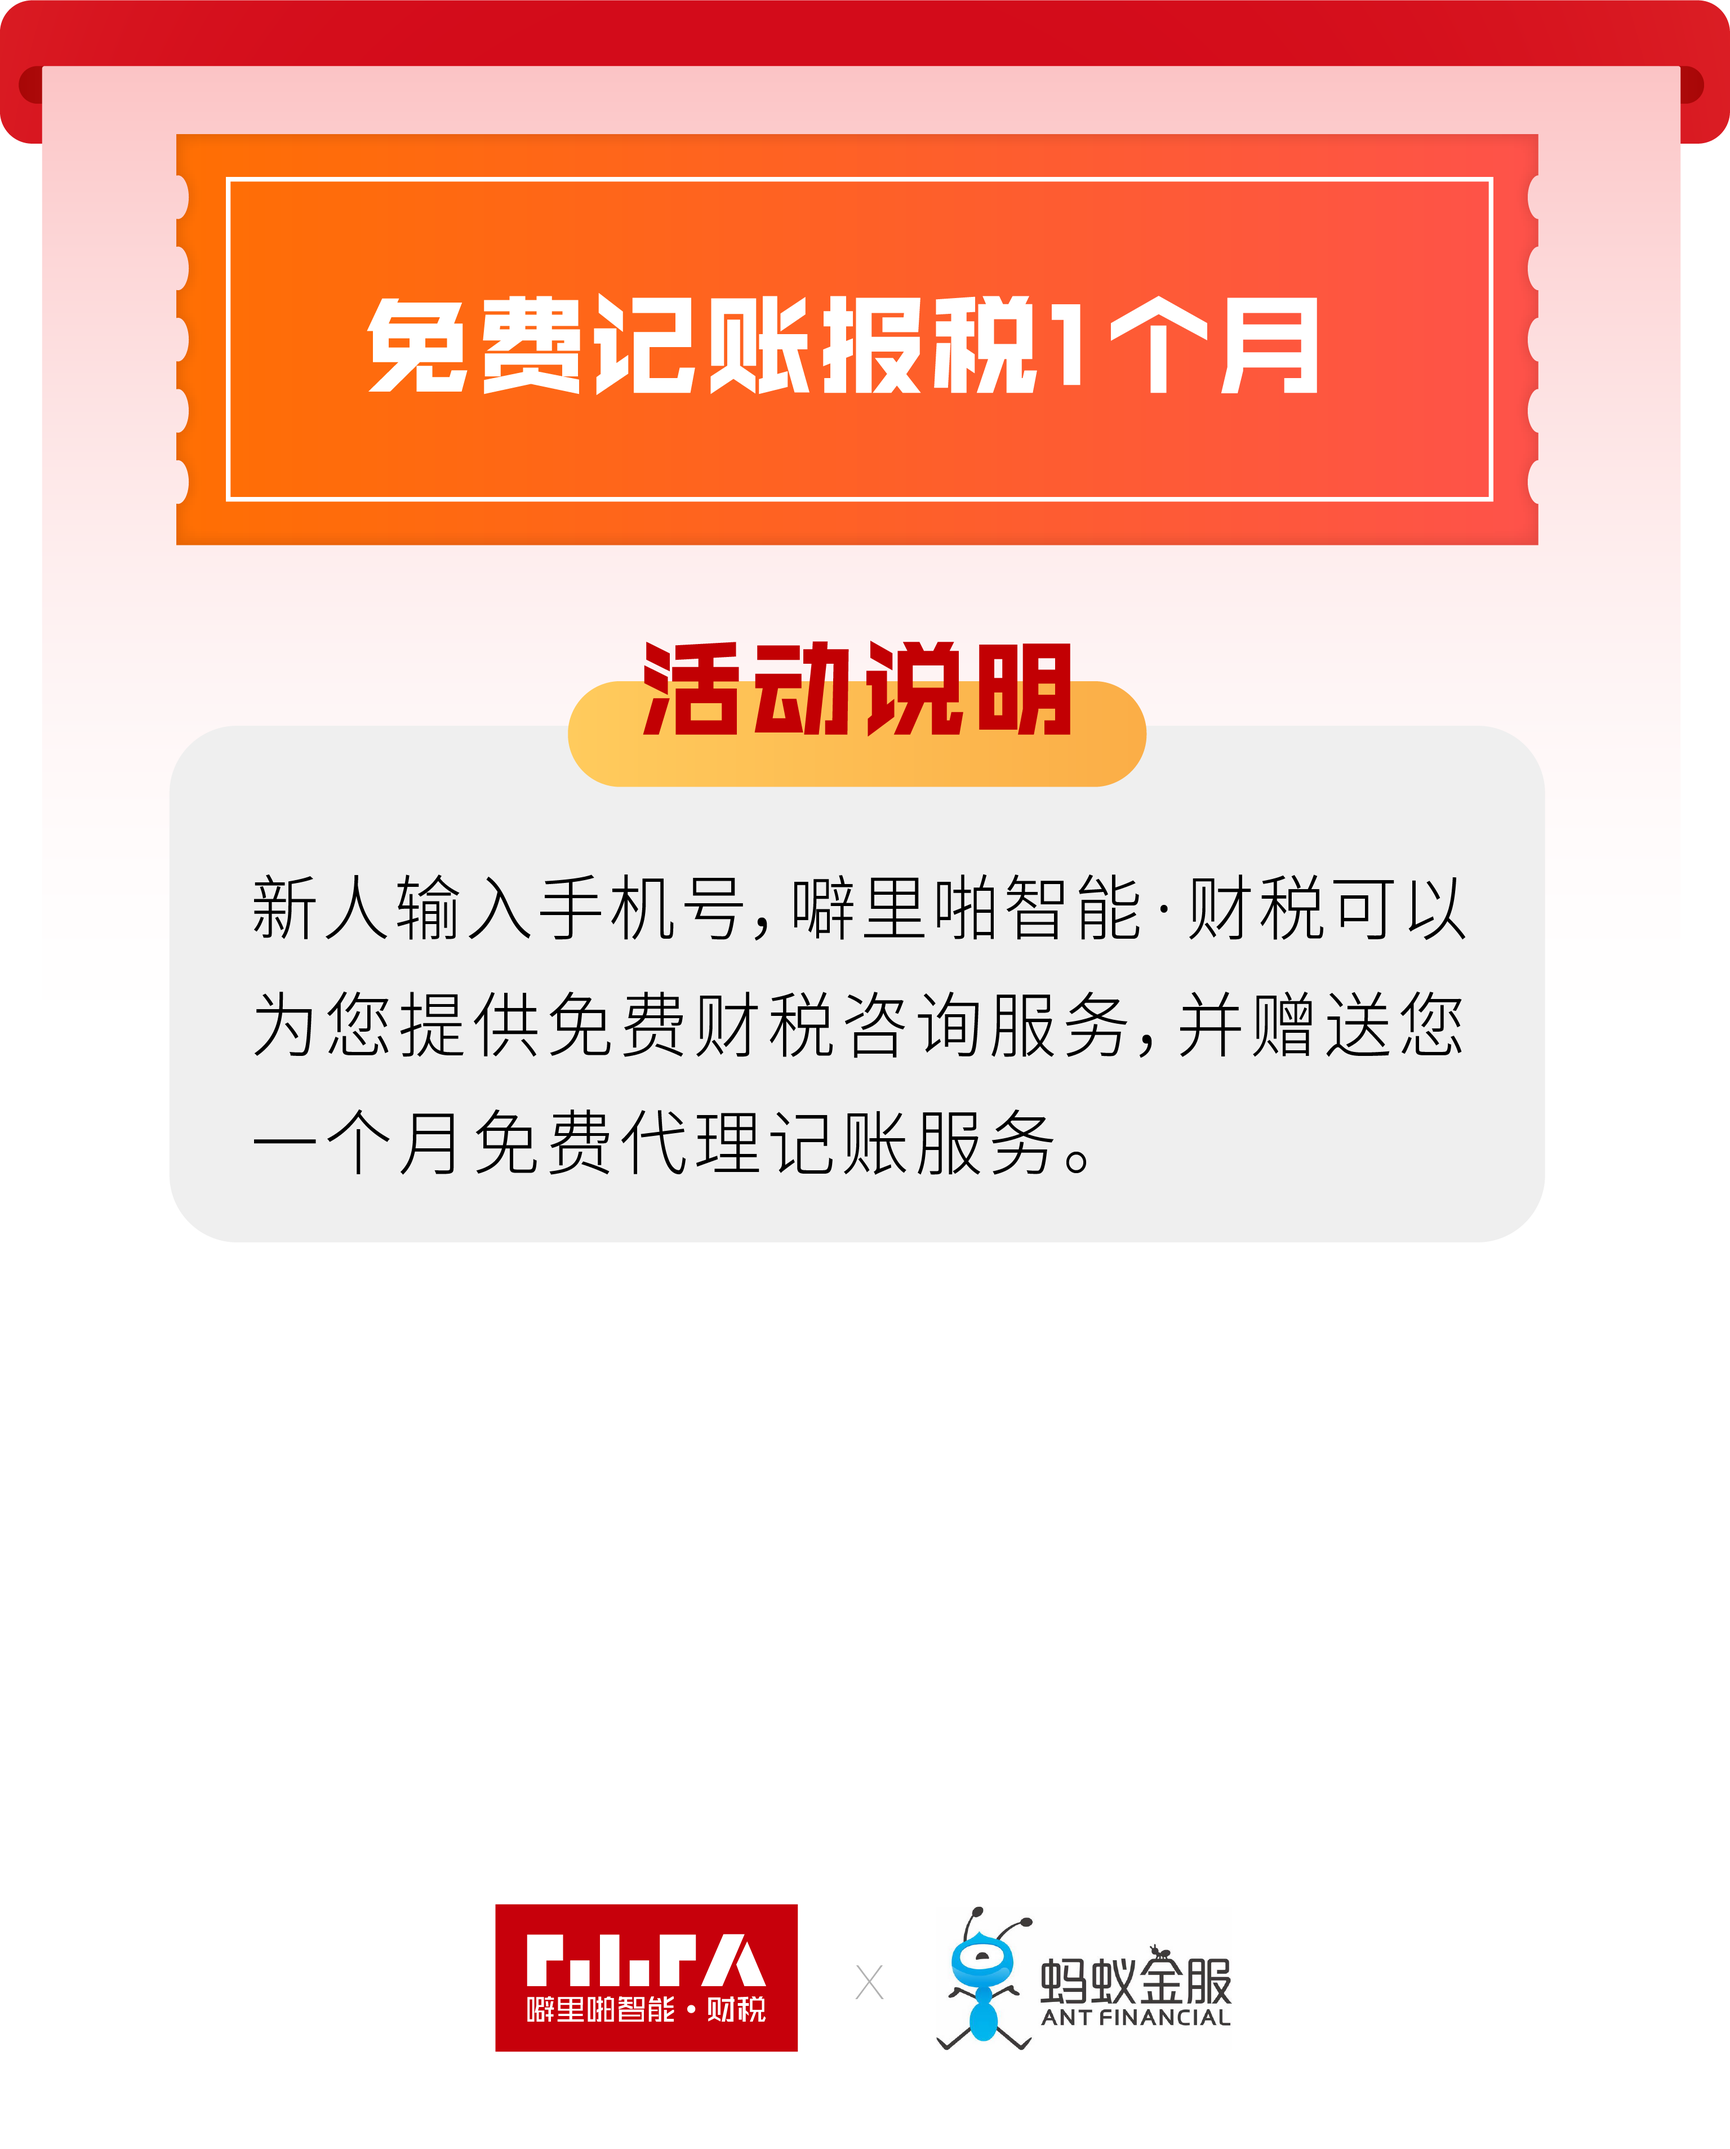
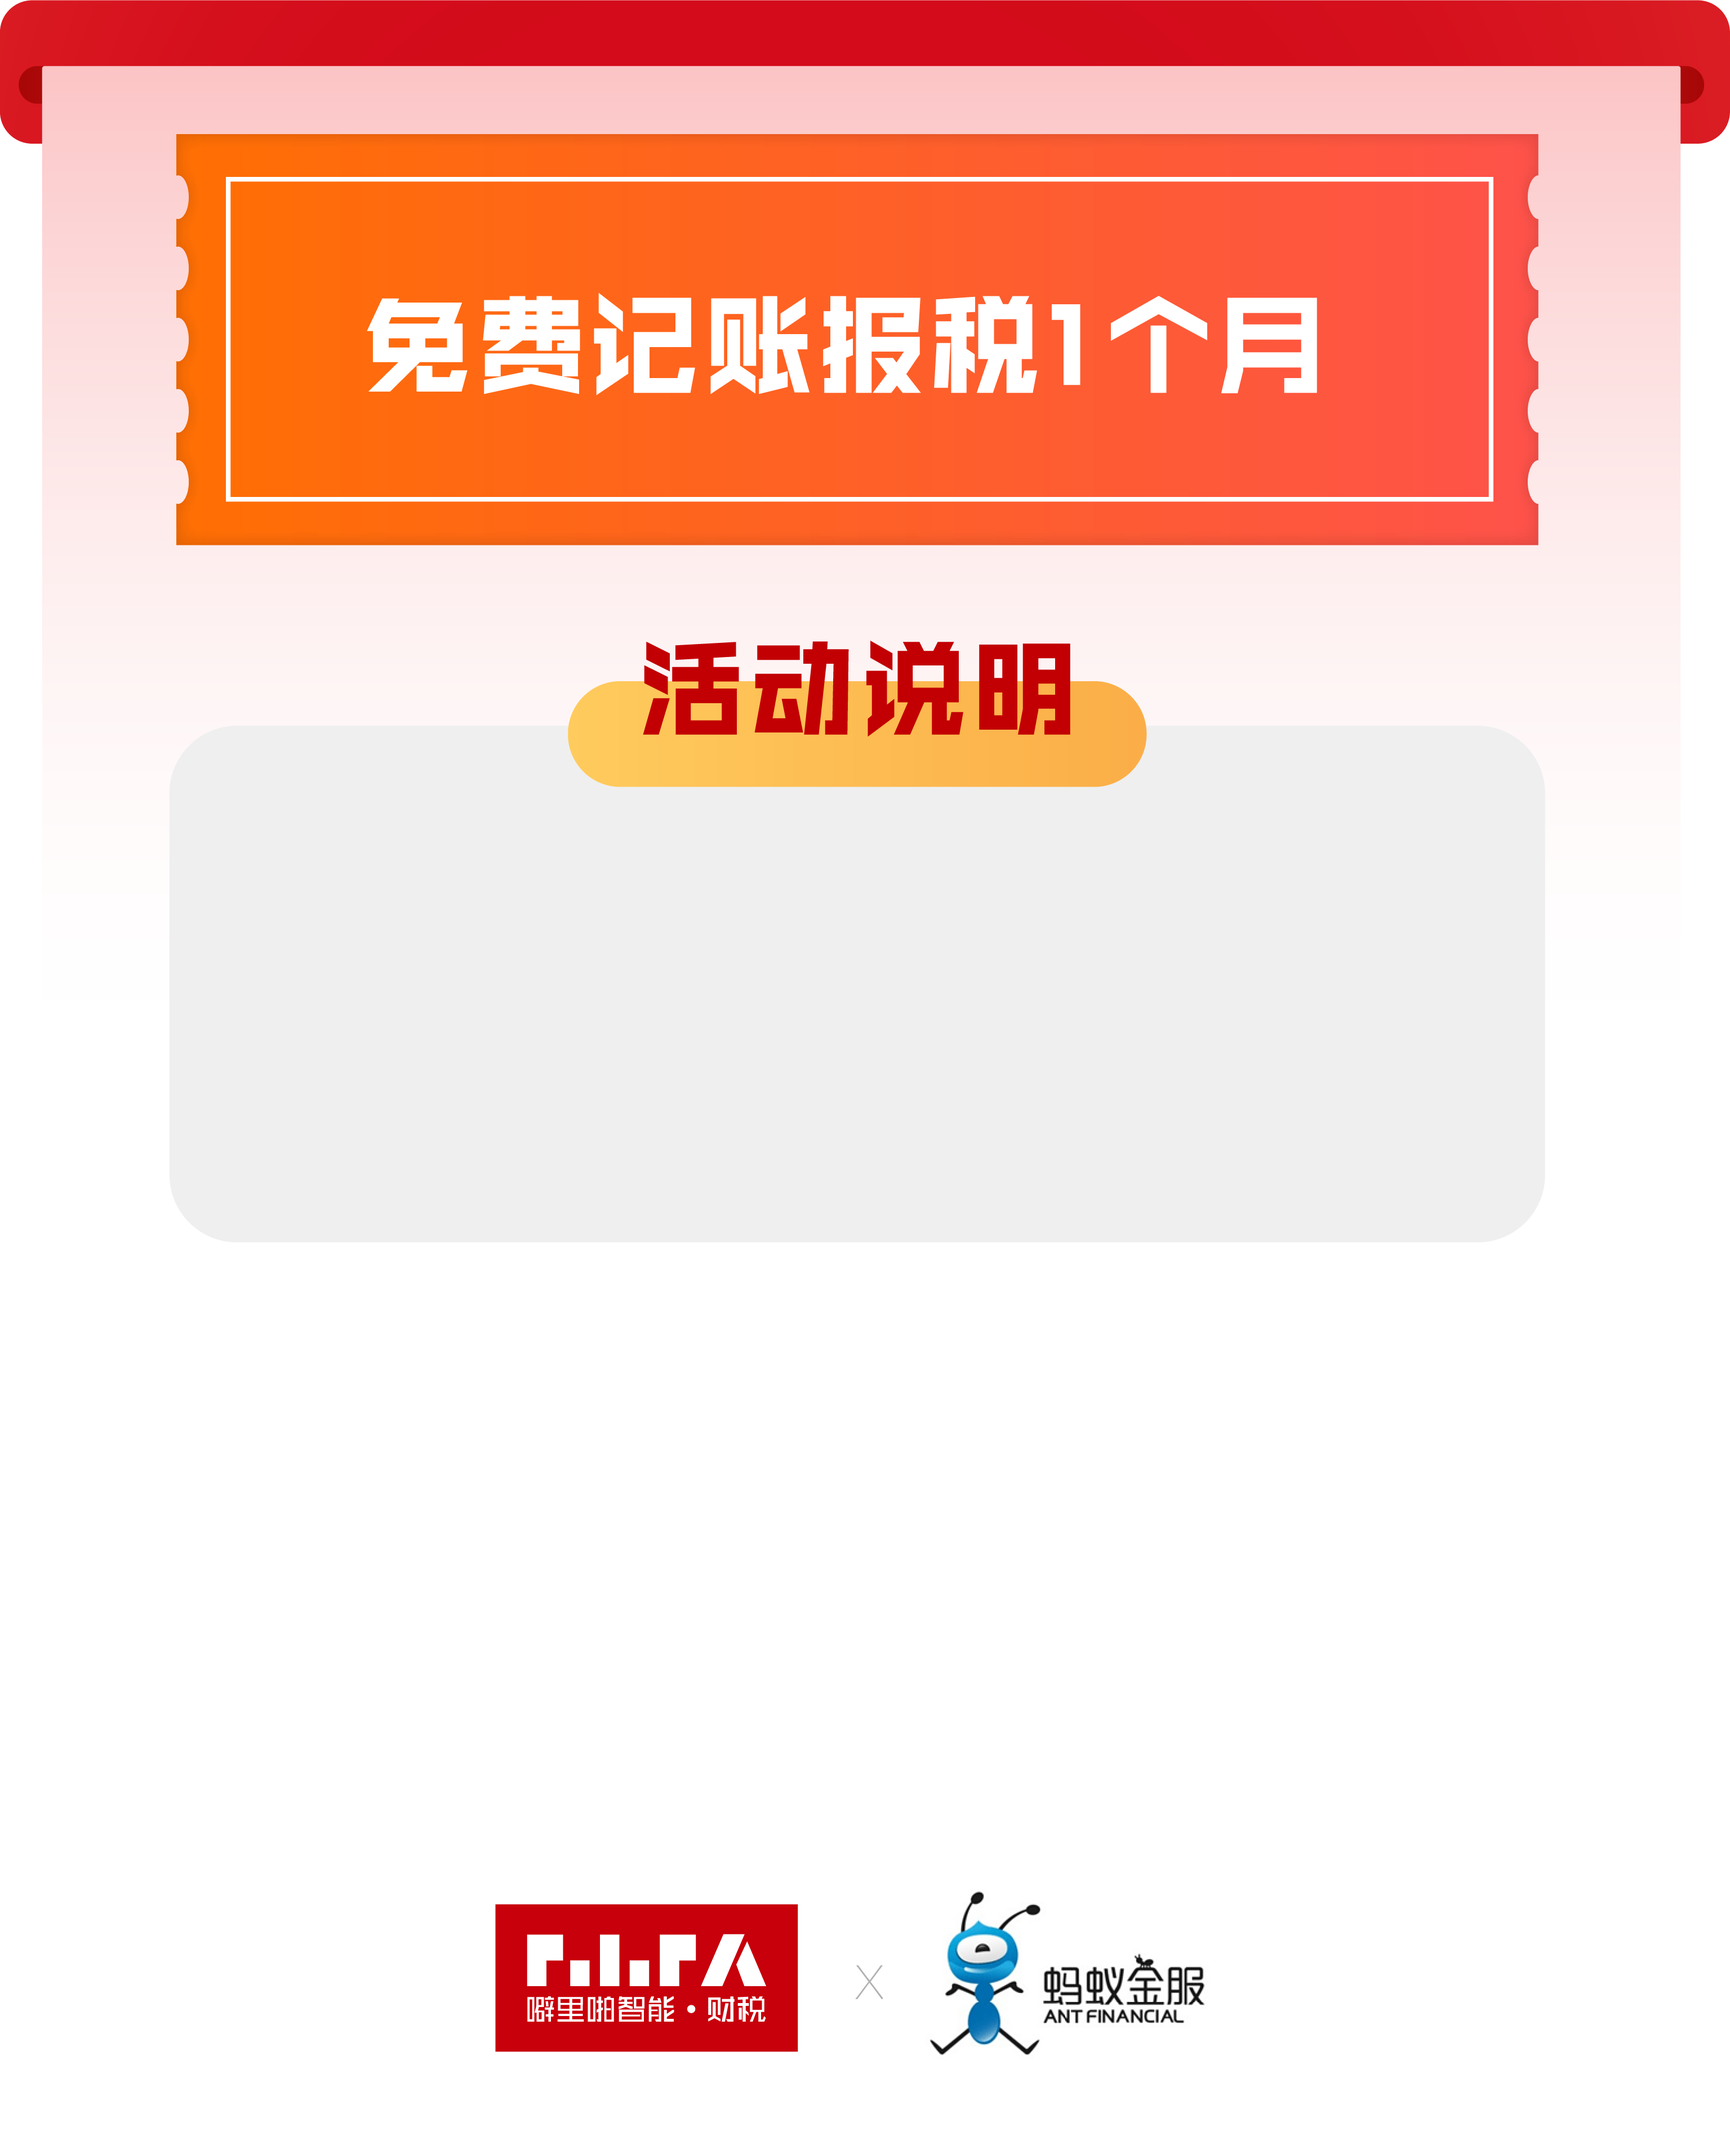
[fix] 优化新人送大礼 related to issue #1

diff --git a/client/container/activities/gift/style.module.sass b/client/container/activities/gift/style.module.sass
@@ -1,3 +1,5 @@
+@function convert($n)
+  @return ($n / 50) + rem
 @mixin allSize-PX($width: 100%, $height: auto)
   .activity
     width: 100%
@@ -16,50 +18,49 @@
     width: 100%
     height: auto
   .con
-    width: 350px
-    height: 460px
-    background: url('client/assets/activity-con2.png') 0px 20px / 100% auto no-repeat
+    width: convert(350)
+    height: convert(460)
+    background: url('client/assets/activity-con2.png') 0px convert(20) / 100% auto no-repeat
     position: absolute
     left: 0
     right: 0
     margin: 0 auto
-    top: 110px
-    @media screen and (max-width: 321px)
-      width: 300px
-      height: 400px
-      .form-card
-        margin: 242px auto 0
-        width: 190px
-        .item
-          line-height: 38px
-          input
-            height: 38px
-      .btn
-        width: 200px
-        height: 44px
-        font-size: 16px
-        line-height: 40px
+    top: convert(110)
+  .activity-desc
+    position: absolute
+    top: convert(190)
+    left: 0
+    right: 0
+    width: convert(275)
+    font-size: convert(14)
+    margin: 0 auto
+    padding: 0 convert(12)
+    line-height: convert(24)
+    box-sizing: border-box
+    color: #666
   .form-card
-    margin: 282px auto 0
-    width: 270px
+    margin: convert(282) auto 0
+    width: convert(270)
     .item
       border-bottom: none
-      line-height: 38px
-      background: #ffd7d7
-      border-radius: 5px
       input
         color: #f2292d
-        height: 38px
-        padding-left: 10px
+        height: convert(38)
+        line-height: convert(38)
+        padding-left: convert(10)
+        font-size: convert(14)
+        background: #ffd7d7
+        border-radius: 5px
         &::-webkit-input-placeholder
           color: #f2292d
-          font-size: 14px
+          line-height: convert(38)
+          font-size: convert(14)
   .btn
-    margin: 10px auto 0
-    width: 270px
-    height: 45px
+    margin: convert(10) auto 0
+    width: convert(270)
+    height: convert(45)
     background: url('client/assets/activity-btn2.png') center / 100% 100% no-repeat
     text-align: center
-    line-height: 45px
+    line-height: convert(45)
     color: #fff
-    font-size: 14px
+    font-size: convert(14)

diff --git a/client/container/activities/gift/index.tsx b/client/container/activities/gift/index.tsx
@@ -41,6 +41,9 @@ class Main extends React.Component<Props> {
           <img src={require('client/assets/activity-bg2.png')}>
           </img>
           <div className={cx('con')}>
+            <div className={cx('activity-desc')}>
+              新人输入手机号，噼里啪智能·财税可以为您提供免费财税咨询服务，并赠送您一个月免费代理记账服务。
+            </div>
             <div className={cx('form-card')}>
               <FormItem
                 className={cx('item')}

diff --git a/client/container/user/info/phone/index.tsx b/client/container/user/info/phone/index.tsx
@@ -41,7 +41,7 @@ class Main extends React.Component<Props> {
           APP.dispatch(actions.user.fetch())
         })
       } else {
-        APP.toast('服务器异常')
+        APP.toast(res.message)
       }
     })
   }

diff --git a/client/container/user/info/password/index.tsx b/client/container/user/info/password/index.tsx
@@ -39,7 +39,7 @@ class Main extends React.Component<Props> {
           APP.history.push('/info')
         })
       } else {
-        APP.toast('服务器异常')
+        APP.toast(res.message)
       }
     })
   }
